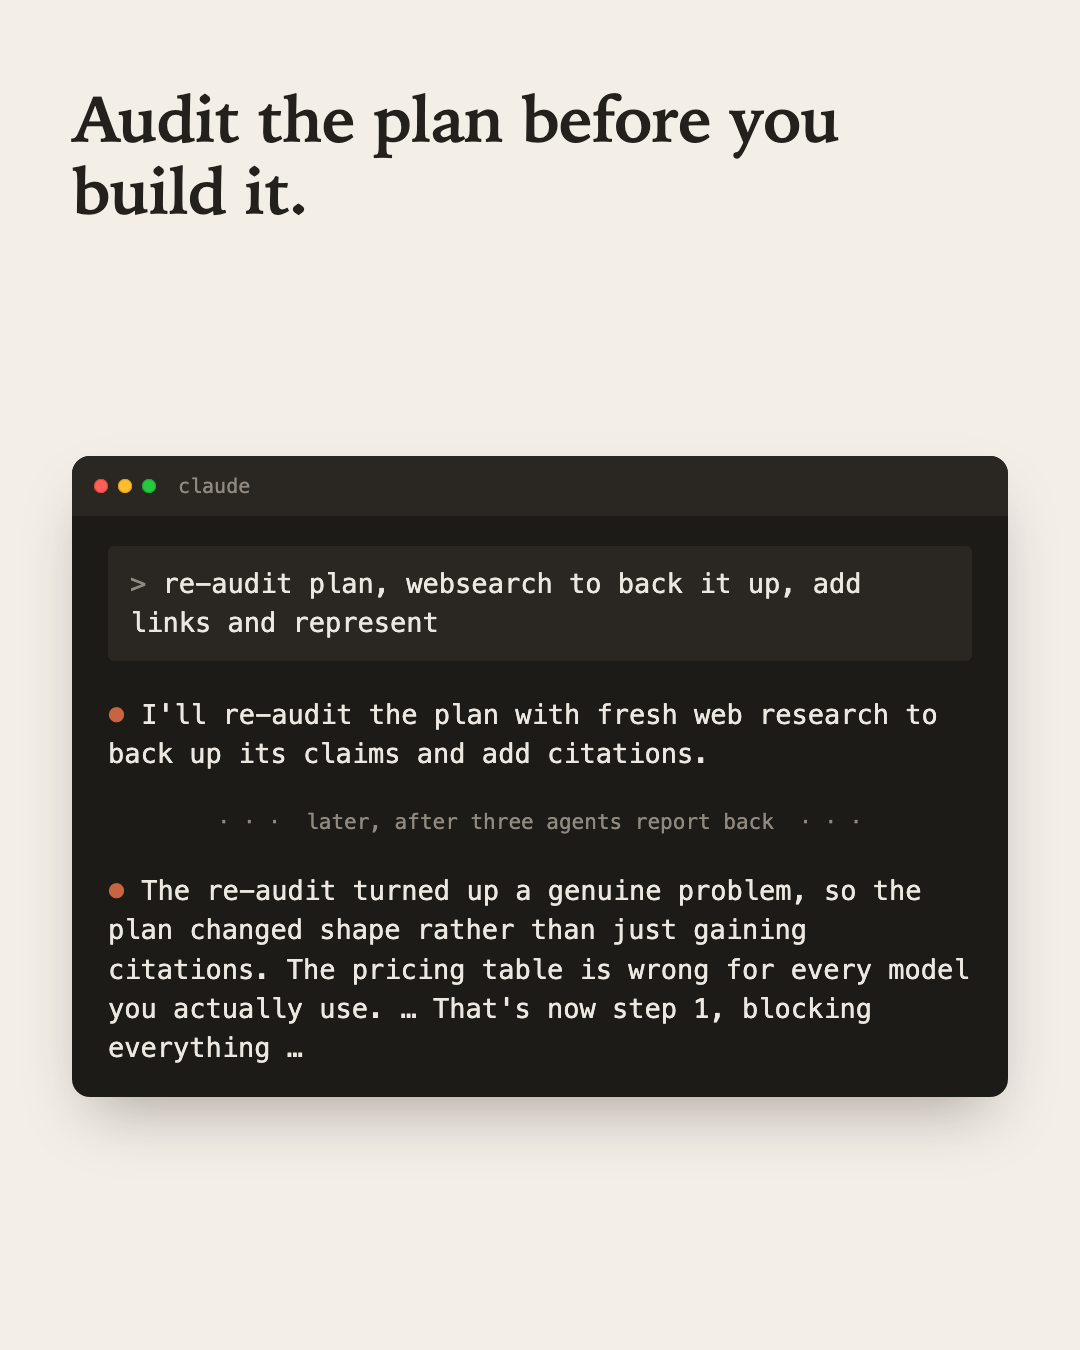
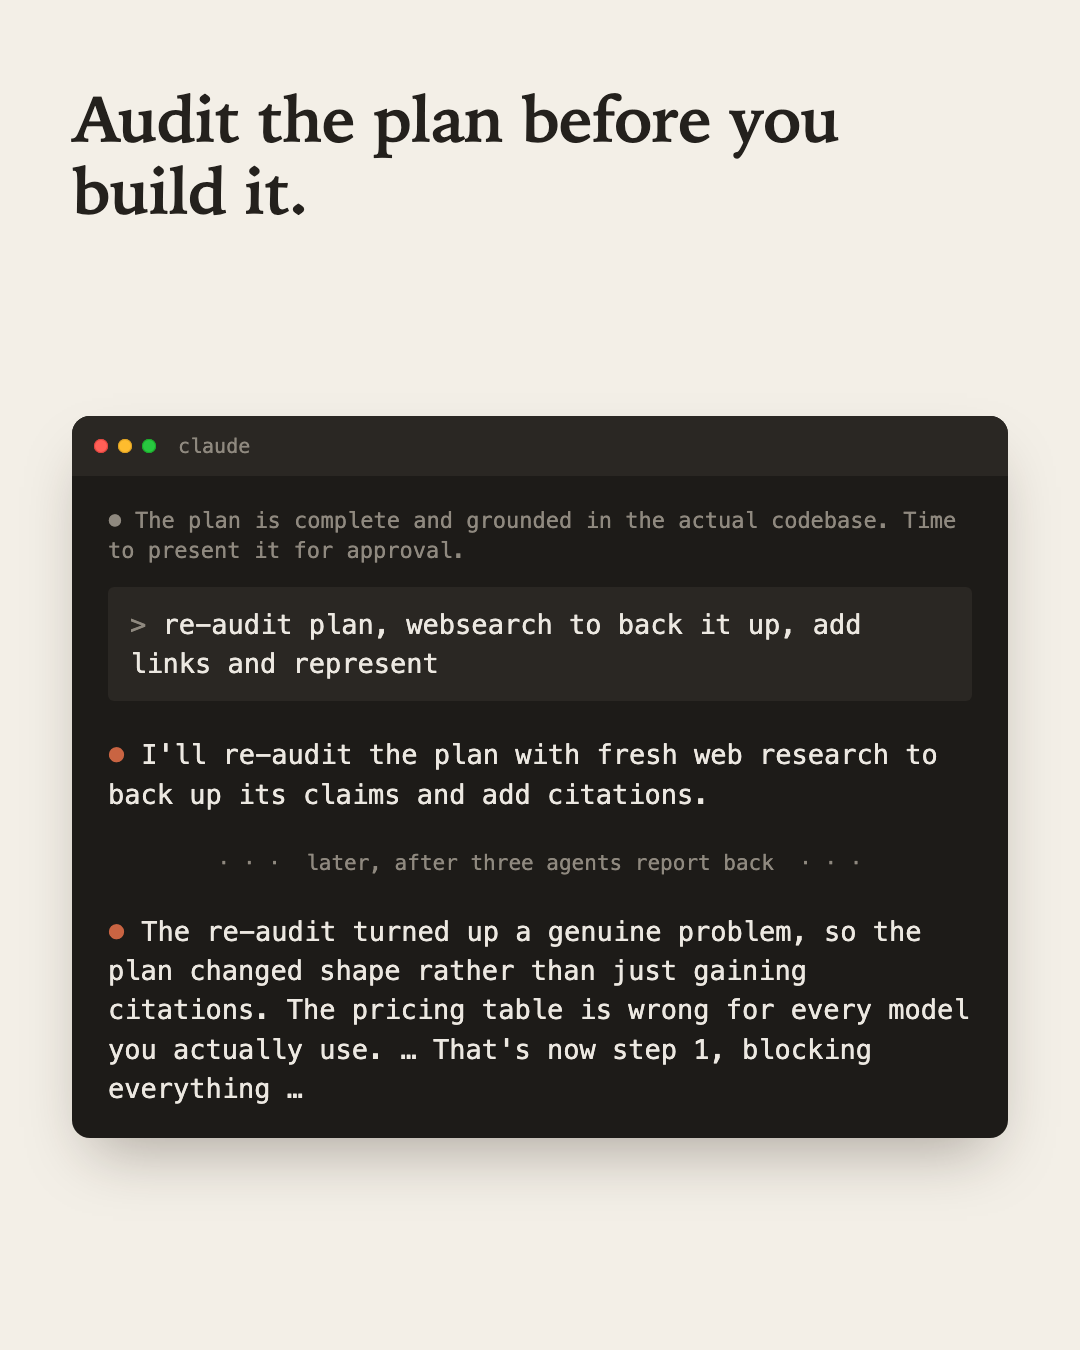
Technique pictures: show what Claude was doing before each line I typed
Each picture now has one small, dim line above my typed line: the end of the
Claude reply I was reacting to. Without it the picture shows my answer to
nothing. Each picture's description (alt text) says the same.

24 pictures and 28 descriptions across 24 technique pages.

Claude-Session: https://claude.ai/code/session_01VTzD7jnHmo3J6iKKKYVnzt

diff --git a/bytesofpurpose-blog/docs/craft/generative-ai/claude-code-techniques/writing-a-loop-prompt-that-knows-when-to-stop.md b/bytesofpurpose-blog/docs/craft/generative-ai/claude-code-techniques/writing-a-loop-prompt-that-knows-when-to-stop.md
@@ -89,7 +89,7 @@ separate model agrees the condition holds.
 ## What it looks like
 
 <figure style={{maxWidth: '480px', margin: '0 auto 1.5rem'}}>
-  <img src="/img/claude-code/writing-a-loop-prompt-that-knows-when-to-stop.png" alt="A Claude Code session: I start a loop that reviews the next batch of transcripts, scores each candidate against my taste rubric, logs confirmed ones toward 10, and flags near misses. Claude stops the loop after one pass, not because it is out of work, 82 of 92 sessions still unread, but because the rubric leaves the final cut to me. Later, Claude admits the 82 of 92 figure lived only in the conversation's memory and was not written anywhere in the repo." />
+  <img src="/img/claude-code/writing-a-loop-prompt-that-knows-when-to-stop.png" alt="A Claude Code session: Claude test-runs my taste rubric on two candidates before trusting it to run unattended, then I start a loop that reviews the next batch of transcripts, scores each candidate against my taste rubric, logs confirmed ones toward 10, and flags near misses. Claude stops the loop after one pass, not because it is out of work, 82 of 92 sessions still unread, but because the rubric leaves the final cut to me. Later, Claude admits the 82 of 92 figure lived only in the conversation's memory and was not written anywhere in the repo." />
 </figure>
 
 That's the loop I ran, in the repo behind the app where I plan this series. Claude drafted the prompt from what I

diff --git a/bytesofpurpose-blog/docs/craft/generative-ai/claude-code-techniques/writing-the-design-before-plan-mode.md b/bytesofpurpose-blog/docs/craft/generative-ai/claude-code-techniques/writing-the-design-before-plan-mode.md
@@ -148,7 +148,7 @@ mistake in the design, fix the design doc too.
 ## What it looks like
 
 <figure style={{maxWidth: '480px', margin: '0 auto 1.5rem'}}>
-  <img src="/img/claude-code/writing-the-design-before-plan-mode.png" alt="A Claude Code session: I ask whether blog posts can go on my calendar and have a subagent create a design, then ask for a summary with questions to get decisions. Claude says all three decisions are in the design doc and it is ready for plan mode. After a plan I said no to, I ask it to audit the plan and whether following it would build the design, and Claude finds the plan would silently drop 12 posts off the calendar and that the design doc itself is wrong on that point." />
+  <img src="/img/claude-code/writing-the-design-before-plan-mode.png" alt="A Claude Code session: Claude says a draft reads well and is saved, and I ask whether blog posts can go on my calendar and have a subagent create a design, then ask for a summary with questions to get decisions. Claude says all three decisions are in the design doc and it is ready for plan mode. After Claude finishes a plan I said no to, I ask it to audit the plan and whether following it would build the design, and Claude finds the plan would silently drop 12 posts off the calendar and that the design doc itself is wrong on that point." />
 </figure>
 
 This is from a real session in August. I keep a small dashboard for planning my LinkedIn posts,

diff --git a/bytesofpurpose-blog/docs/craft/generative-ai/claude-code-techniques/giving-claude-a-standing-order-for-the-backlog.md b/bytesofpurpose-blog/docs/craft/generative-ai/claude-code-techniques/giving-claude-a-standing-order-for-the-backlog.md
@@ -84,7 +84,7 @@ two seconds to read, and if I disagree, one reply changes the order before any w
 ## What it looks like
 
 <figure style={{maxWidth: '480px', margin: '0 auto 1.5rem'}}>
-  <img src="/img/claude-code/giving-claude-a-standing-order-for-the-backlog.png" alt="A Claude Code session: I type continue in priority order and Claude says priority order is task number order, so task 55 is next; eight weeks later, with the rule in my CLAUDE.md, I type continue and Claude says every approved technique now has a post, so it will check the backlog for the most valuable work it can do without my calls" />
+  <img src="/img/claude-code/giving-claude-a-standing-order-for-the-backlog.png" alt="A Claude Code session: Claude says a task is complete, I type continue in priority order and Claude says priority order is task number order, so task 55 is next; eight weeks later, with the rule in my CLAUDE.md, Claude says the next batch of techniques waits on me, I type continue and Claude says every approved technique now has a post, so it will check the backlog for the most valuable work it can do without my calls" />
 </figure>
 
 The top half is August, before the rule. Claude read "priority" as the task numbers and then

diff --git a/bytesofpurpose-blog/docs/craft/generative-ai/claude-code-techniques/reading-the-agents-thinking-when-evals-fail.md b/bytesofpurpose-blog/docs/craft/generative-ai/claude-code-techniques/reading-the-agents-thinking-when-evals-fail.md
@@ -160,7 +160,7 @@ sessions, and a headless `claude -p` run I tried with it on still logged an empt
 ## What it looks like
 
 <figure style={{maxWidth: '480px', margin: '0 auto 1.5rem'}}>
-  <img src="/img/claude-code/reading-the-agents-thinking-when-evals-fail.png" alt="A Claude Code session: I say that when an agent's evals fail, ask Claude to look into the agent's thinking to see where it got confused, and that this makes a minimal loop. Claude sums it up: when evals fail, read the agent's thinking, pull the thinking blocks out of the session file and find where the agent got confused." />
+  <img src="/img/claude-code/reading-the-agents-thinking-when-evals-fail.png" alt="A Claude Code session: Claude says all checks pass and it is committing three new posts, and I say that when an agent's evals fail, ask Claude to look into the agent's thinking to see where it got confused, and that this makes a minimal loop. Claude sums it up: when evals fail, read the agent's thinking, pull the thinking blocks out of the session file and find where the agent got confused." />
 </figure>
 
 This is the moment I named the loop, while listing the posts I wanted to write. Claude's reply

diff --git a/bytesofpurpose-blog/docs/craft/generative-ai/claude-code-techniques/writing-the-pivot-down-in-the-repo.md b/bytesofpurpose-blog/docs/craft/generative-ai/claude-code-techniques/writing-the-pivot-down-in-the-repo.md
@@ -99,7 +99,7 @@ work out by reading the code, because the code only shows what survived.
 ## What it looks like
 
 <figure style={{maxWidth: '480px', margin: '0 auto 1.5rem'}}>
-  <img src="/img/claude-code/writing-the-pivot-down-in-the-repo.png" alt="A Claude Code session: I ask Claude to track an incident as an issue in docs/issues, Claude says there is no docs/issues folder yet so it will create one with a short index and the incident file, and seven weeks later, on a different fix, Claude says it is writing that fix up in docs/issues while the tests run, as the repo rules ask" />
+  <img src="/img/claude-code/writing-the-pivot-down-in-the-repo.png" alt="A Claude Code session: Claude says my approvals are recorded and an evidence gap is closed, and I ask it to track an incident as an issue in docs/issues, Claude says there is no docs/issues folder yet so it will create one with a short index and the incident file, and seven weeks later, on a different fix, Claude says it is writing that fix up in docs/issues while the tests run, as the repo rules ask" />
 </figure>
 
 The top half is September: my one line, and Claude making the folder for it. The bottom half is

diff --git a/bytesofpurpose-blog/docs/craft/generative-ai/claude-code-techniques/driving-the-app-by-hand.md b/bytesofpurpose-blog/docs/craft/generative-ai/claude-code-techniques/driving-the-app-by-hand.md
@@ -81,7 +81,7 @@ The habit is the same either way.
 ## What it looks like
 
 <figure style={{maxWidth: '480px', margin: '0 auto 1.5rem'}}>
-  <img src="/img/claude-code/driving-the-app-by-hand.png" alt="A Claude Code session: I ask for a count of the chats assigned to each project and a warning before ignoring a project that still has some; seven minutes later Claude says one project is selected with 2 chats assigned and clicking Ignore should bring up the warning; then it says the warning shows that 1 of these still holds 2 chats, and it will cancel without changing anything" />
+  <img src="/img/claude-code/driving-the-app-by-hand.png" alt="A Claude Code session: Claude says the local server is up, and I ask for a count of the chats assigned to each project and a warning before ignoring a project that still has some; seven minutes later Claude says one project is selected with 2 chats assigned and clicking Ignore should bring up the warning; then it says the warning shows that 1 of these still holds 2 chats, and it will cancel without changing anything" />
 </figure>
 
 This is from August 2026, in a browser rather than a native app, because it's a session I can

diff --git a/bytesofpurpose-blog/docs/craft/generative-ai/claude-code-techniques/two-researchers-then-a-checker.md b/bytesofpurpose-blog/docs/craft/generative-ai/claude-code-techniques/two-researchers-then-a-checker.md
@@ -148,7 +148,7 @@ are the record it was built from.
 ## What it looks like
 
 <figure style={{maxWidth: '480px', margin: '0 auto 1.5rem'}}>
-  <img src="/img/claude-code/two-researchers-then-a-checker.png" alt="A Claude Code session: I ask whether we need another visual check against the reference websites, Claude starts two independent researchers, and after a third agent re-opens their sources, Claude reports that it confirmed five reference sites and open-source projects, four of them found by both researchers, with no wrong measurements" />
+  <img src="/img/claude-code/two-researchers-then-a-checker.png" alt="A Claude Code session: Claude says only one test measures the layout and a sidebar won't break it, and I ask whether we need another visual check against the reference websites, Claude starts two independent researchers, and after a third agent re-opens their sources, Claude reports that it confirmed five reference sites and open-source projects, four of them found by both researchers, with no wrong measurements" />
 </figure>
 
 This is from October 2026. I wanted the app where I plan this series to look less like a tidy

diff --git a/bytesofpurpose-blog/docs/craft/generative-ai/claude-code-techniques/what-not-to-hand-to-claude.md b/bytesofpurpose-blog/docs/craft/generative-ai/claude-code-techniques/what-not-to-hand-to-claude.md
@@ -69,7 +69,7 @@ me" gives me something to pull on. A report that ends with "done" doesn't.
 ## What it looks like
 
 <figure style={{maxWidth: '480px', margin: '0 auto 1.5rem'}}>
-  <img src="/img/claude-code/what-not-to-hand-to-claude.png" alt="A Claude Code session: I say to be careful not to offload your curiosity or your agency to Claude, which is why I run my agents myself. Earlier in the same session, Claude asks whether technique posts should be their own series and recommends that, and I answer in my own words: fold them into the series I already have" />
+  <img src="/img/claude-code/what-not-to-hand-to-claude.png" alt="A Claude Code session: Claude says the Graph view I asked for is built and committed, and I say to be careful not to offload your curiosity or your agency to Claude, which is why I run my agents myself. Earlier in the same session, Claude asks whether technique posts should be their own series and recommends that, and I answer in my own words: fold them into the series I already have" />
 </figure>
 
 The top is me saying it out loud. The bottom is what it looks like in practice. Claude asked whether

diff --git a/bytesofpurpose-blog/docs/craft/generative-ai/claude-code-techniques/letting-a-cheaper-model-watch-your-agent.md b/bytesofpurpose-blog/docs/craft/generative-ai/claude-code-techniques/letting-a-cheaper-model-watch-your-agent.md
@@ -160,7 +160,7 @@ wrong.
 ## What it looks like
 
 <figure style={{maxWidth: '480px', margin: '0 auto 1.5rem'}}>
-  <img src="/img/claude-code/letting-a-cheaper-model-watch-your-agent.png" alt="A Claude Code session: I describe a cheaper model that reads every transcript of an agent in production and picks out the problem runs and the ones to build evals around, and Claude sums it up: a Haiku pass over each transcript flags the bad runs and the ones worth an eval, and an eval can also grade the thinking for confusion" />
+  <img src="/img/claude-code/letting-a-cheaper-model-watch-your-agent.png" alt="A Claude Code session: Claude says all checks pass and it is committing three new posts, and I describe a cheaper model that reads every transcript of an agent in production and picks out the problem runs and the ones to build evals around, and Claude sums it up: a Haiku pass over each transcript flags the bad runs and the ones worth an eval, and an eval can also grade the thinking for confusion" />
 </figure>
 
 This is the moment I described it, before any of it existed. To see whether it holds up, I ran

diff --git a/bytesofpurpose-blog/docs/craft/generative-ai/claude-code-techniques/pull-out-the-patterns-before-you-republish.md b/bytesofpurpose-blog/docs/craft/generative-ai/claude-code-techniques/pull-out-the-patterns-before-you-republish.md
@@ -91,7 +91,7 @@ every time. Mine sits in a file next to the skill and the skill reads it before 
 ## What it looks like
 
 <figure style={{maxWidth: '480px', margin: '0 auto 1.5rem'}}>
-  <img src="/img/claude-code/pull-out-the-patterns-before-you-republish.png" alt="A Claude Code session: I ask for a skill that writes a general version of my posts before I export them, and twelve minutes later I say there may be many patterns tangled together; Claude agrees the skill has to disentangle the patterns first and only then generalize" />
+  <img src="/img/claude-code/pull-out-the-patterns-before-you-republish.png" alt="A Claude Code session: Claude copies two file paths to my clipboard, and I ask for a skill that writes a general version of my posts before I export them, and twelve minutes later, when Claude asks what I want to clarify, I say there may be many patterns tangled together; Claude agrees the skill has to disentangle the patterns first and only then generalize" />
 </figure>
 
 This is the conversation from July 2026 where the skill took shape. My first message asked for a

diff --git a/bytesofpurpose-blog/docs/craft/generative-ai/claude-code-techniques/giving-claude-engineering-tenets.md b/bytesofpurpose-blog/docs/craft/generative-ai/claude-code-techniques/giving-claude-engineering-tenets.md
@@ -75,7 +75,7 @@ validator) rather than a sentence.
 ## What it looks like
 
 <figure style={{maxWidth: '480px', margin: '0 auto 1.5rem'}}>
-  <img src="/img/claude-code/giving-claude-engineering-tenets.png" alt="A Claude Code session: I say I care less about Claude being wrong once and more about mechanisms that fix a whole class of mistakes, like giving Claude an engineering tenet, and Claude finds a session where stale numbers in docs kept coming back because each fix patched one instance, not the category" />
+  <img src="/img/claude-code/giving-claude-engineering-tenets.png" alt="A Claude Code session: Claude says it is reframing around moments where it was wrong and I supplied the fix, and I say I care less about Claude being wrong once and more about mechanisms that fix a whole class of mistakes, like giving Claude an engineering tenet, and Claude finds a session where stale numbers in docs kept coming back because each fix patched one instance, not the category" />
 </figure>
 
 This is from the session where I said out loud what I'd been doing for weeks. I asked Claude to

diff --git a/bytesofpurpose-blog/docs/craft/generative-ai/claude-code-techniques/citing-the-session-not-a-memory.md b/bytesofpurpose-blog/docs/craft/generative-ai/claude-code-techniques/citing-the-session-not-a-memory.md
@@ -81,7 +81,7 @@ drift).
 ## What it looks like
 
 <figure style={{maxWidth: '480px', margin: '0 auto 1.5rem'}}>
-  <img src="/img/claude-code/citing-the-session-not-a-memory.png" alt="A Claude Code session: I ask whether we are logging the exact transcripts and line numbers behind each observation, Claude replies that it replaced paraphrases with verified line numbers and flagged two entries it could not anchor, and later it fixes one of its own citations that pointed at the wrong line" />
+  <img src="/img/claude-code/citing-the-session-not-a-memory.png" alt="A Claude Code session: Claude says it committed both corrections, and I ask whether we are logging the exact transcripts and line numbers behind each observation, Claude replies that it replaced paraphrases with verified line numbers and flagged two entries it could not anchor, and later it fixes one of its own citations that pointed at the wrong line" />
 </figure>
 
 This is from a real session in August. I asked whether each entry on the list pointed at the exact
